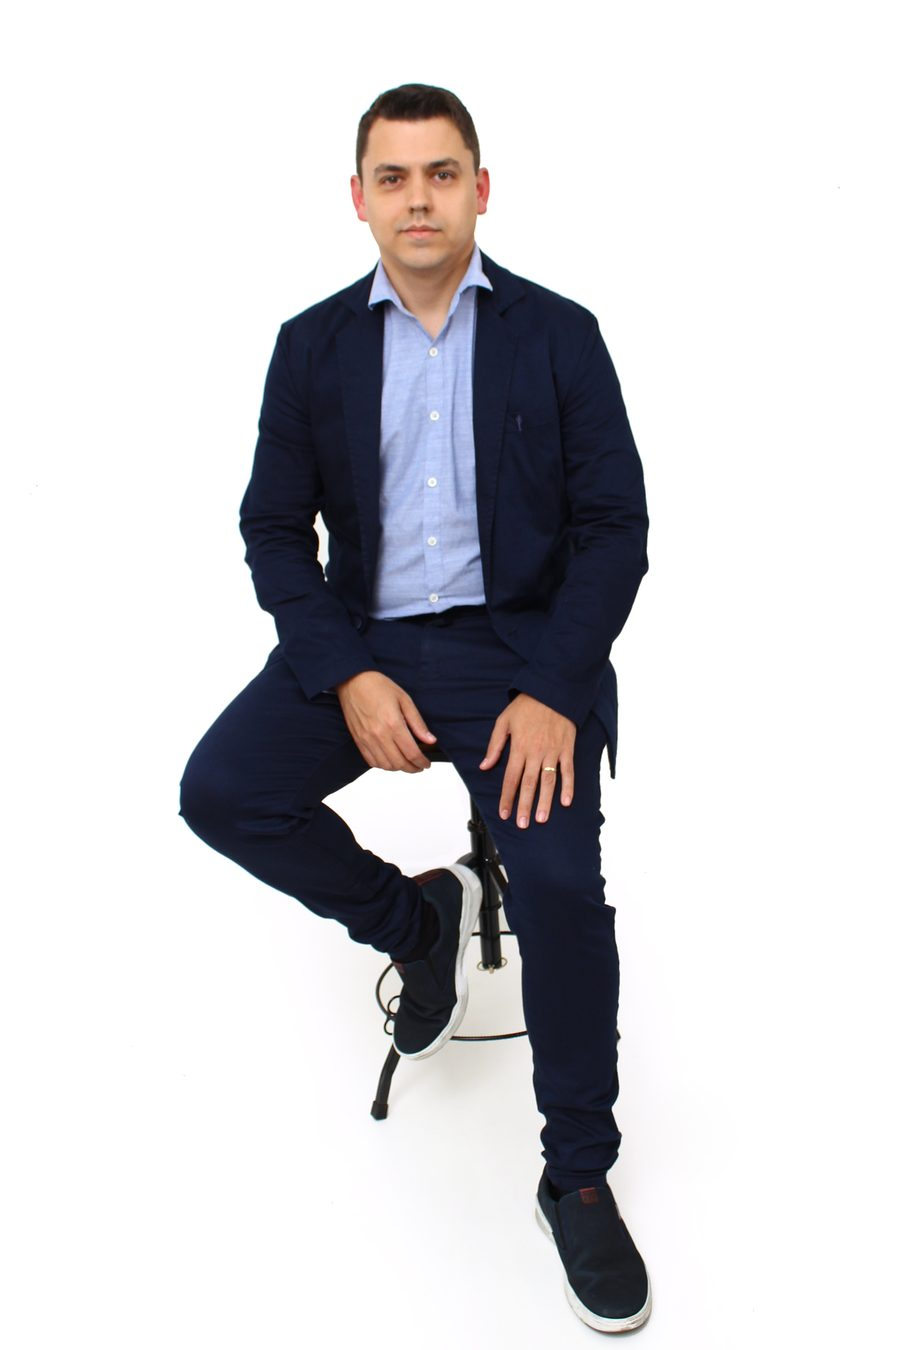
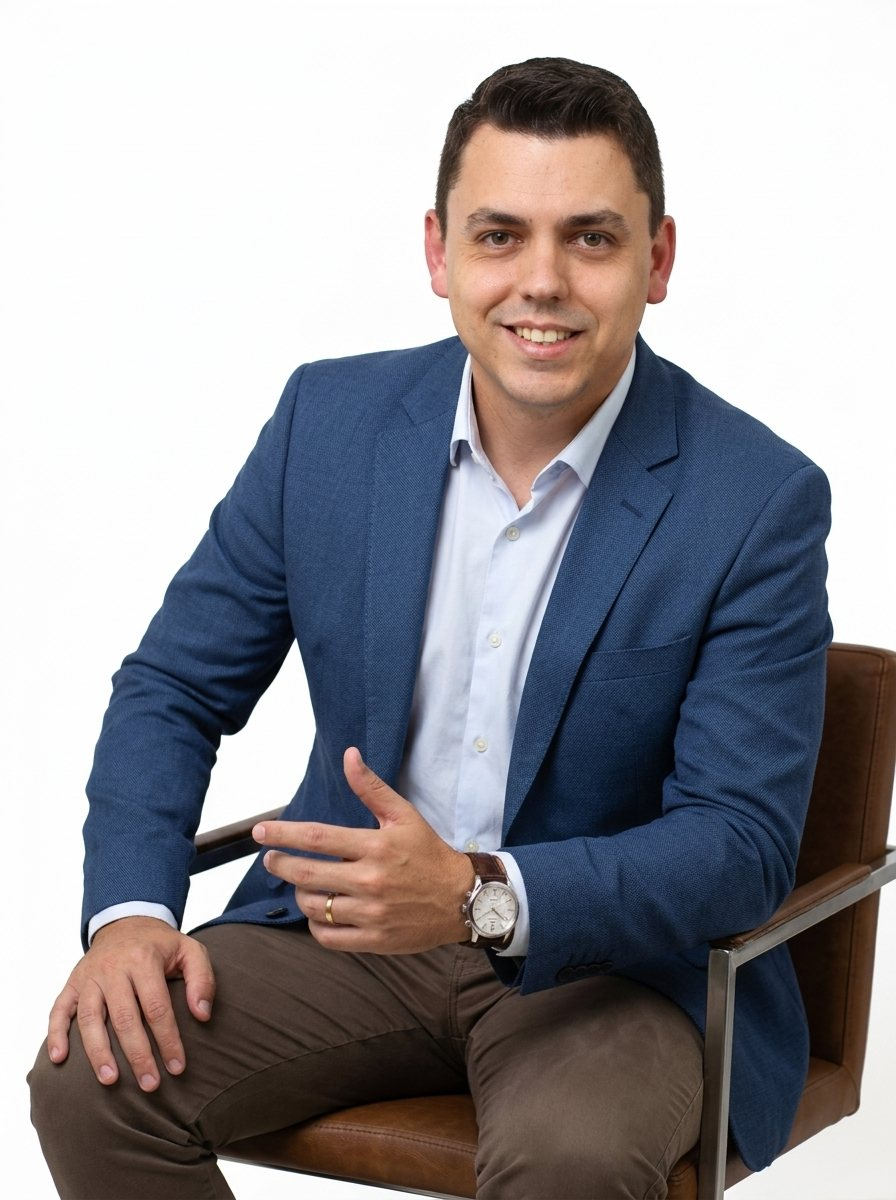
feat: nova foto na seção Sobre

diff --git a/index.html b/index.html
@@ -577,7 +577,7 @@ footer a:hover{color:var(--ink)}
   <div class="wrap">
     <div class="about-grid">
       <div class="about-photos">
-        <figure class="foto has-img r-23"><img src="img/willian-castilho-sobre.jpg" alt="Willian Castilho sentado em uma banqueta, de blazer azul-marinho" width="900" height="1350" loading="lazy" decoding="async"></figure>
+        <figure class="foto has-img r-23"><img src="img/willian-castilho-sobre.jpg" alt="Willian Castilho sorrindo, sentado em uma cadeira, de blazer azul" width="896" height="1200" loading="lazy" decoding="async"></figure>
       </div>
       <div>
         <div class="head" style="margin-bottom:28px">
